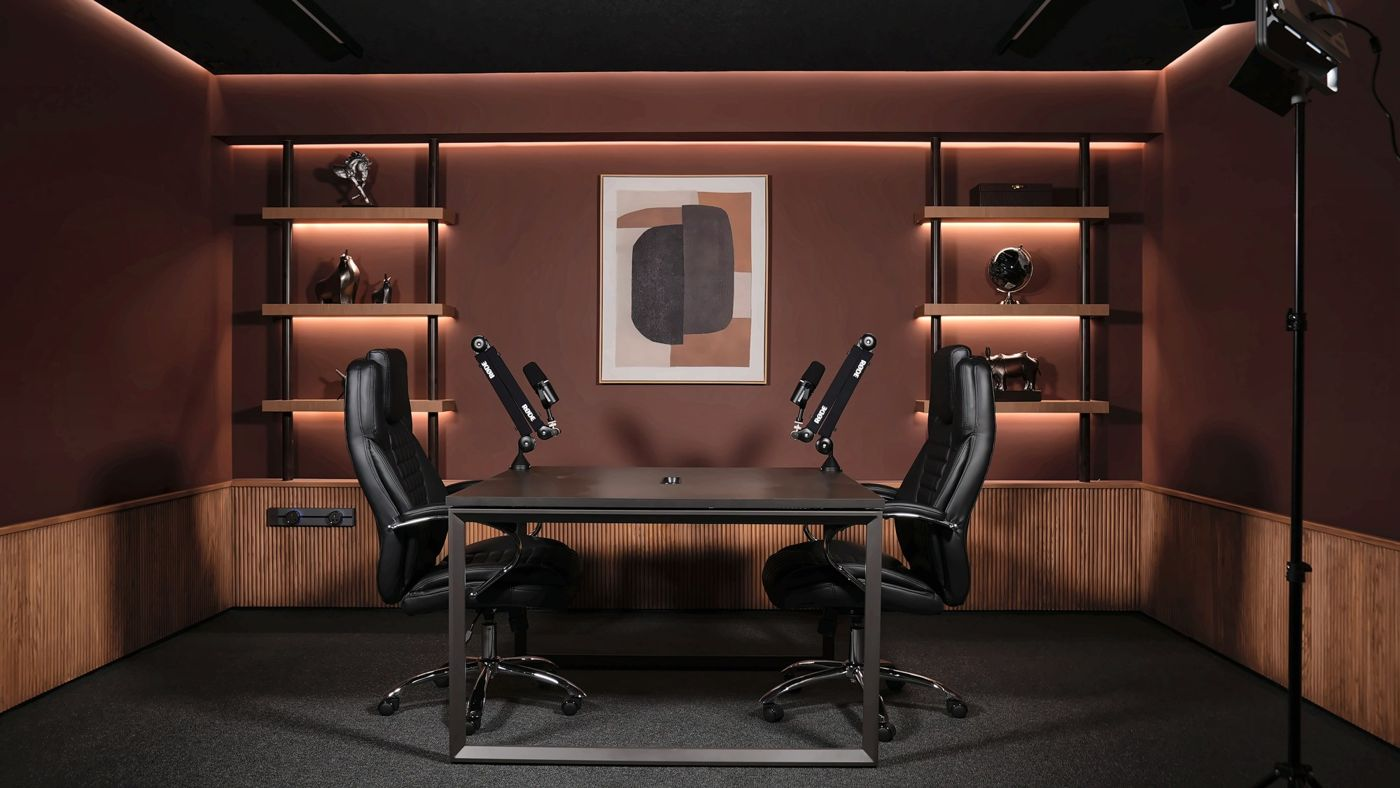
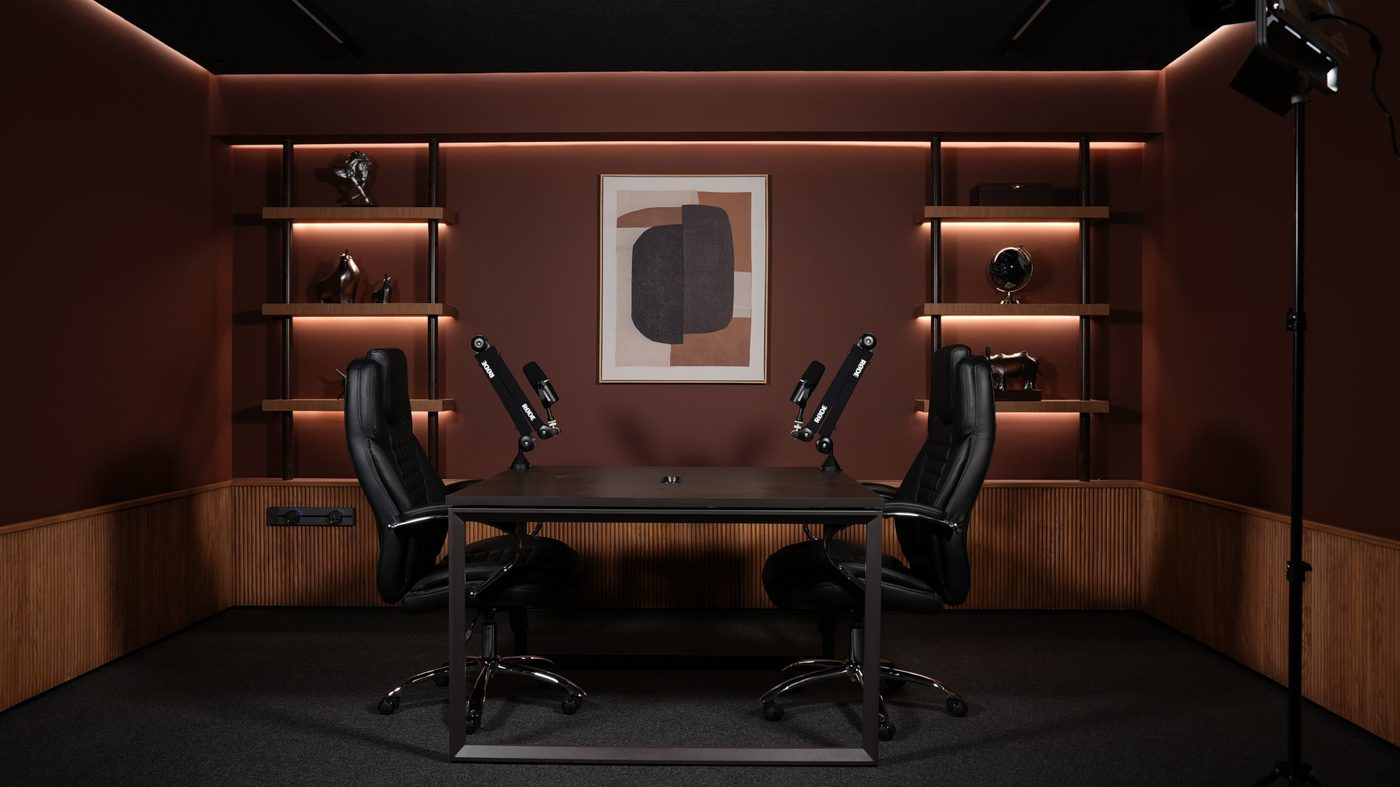
New professional studio photos: hero, gallery, space cards, share image
Claude-Session: https://claude.ai/code/session_01JQfcxSiQaagqfENbGqNdgf

diff --git a/styles.css b/styles.css
@@ -177,7 +177,7 @@ section.block{padding-block:clamp(48px,7vw,88px)}
 .wa .top{display:flex;align-items:center;gap:8px;background:#075E54;color:#fff;margin:-12px -12px 4px;padding:8px 12px;border-radius:14px 14px 0 0;font-size:13.2px}
 .wa p{background:#D9FDD3;border-radius:8px;padding:8px 10px;font-size:13.5px;align-self:flex-end;max-width:90%;color:#111}
 .err{color:#A3321D;font-size:13px}
-.hero{background:linear-gradient(90deg,rgba(14,59,58,.97) 30%,rgba(14,59,58,.6) 62%,rgba(14,59,58,.25)),url(img/lounge-lights.jpg) 70% 40%/cover}
+.hero{background:linear-gradient(90deg,rgba(14,59,58,.97) 30%,rgba(14,59,58,.6) 62%,rgba(14,59,58,.25)),url(img/hero-wide.jpg) 65% 55%/cover}
 @media (max-width:760px){.hero{background:linear-gradient(180deg,rgba(14,59,58,.55),rgba(14,59,58,.96) 55%),url(img/lounge-lights.jpg) center 30%/cover}}
 .valet{display:inline-flex;align-items:center;gap:8px;color:var(--butter);font-size:13.2px;font-weight:600}
 .valet i{font-style:normal;background:var(--night);border:1px solid var(--line-dark);border-radius:6px;padding:0 7px;font-family:var(--f-mono);font-size:12px}
